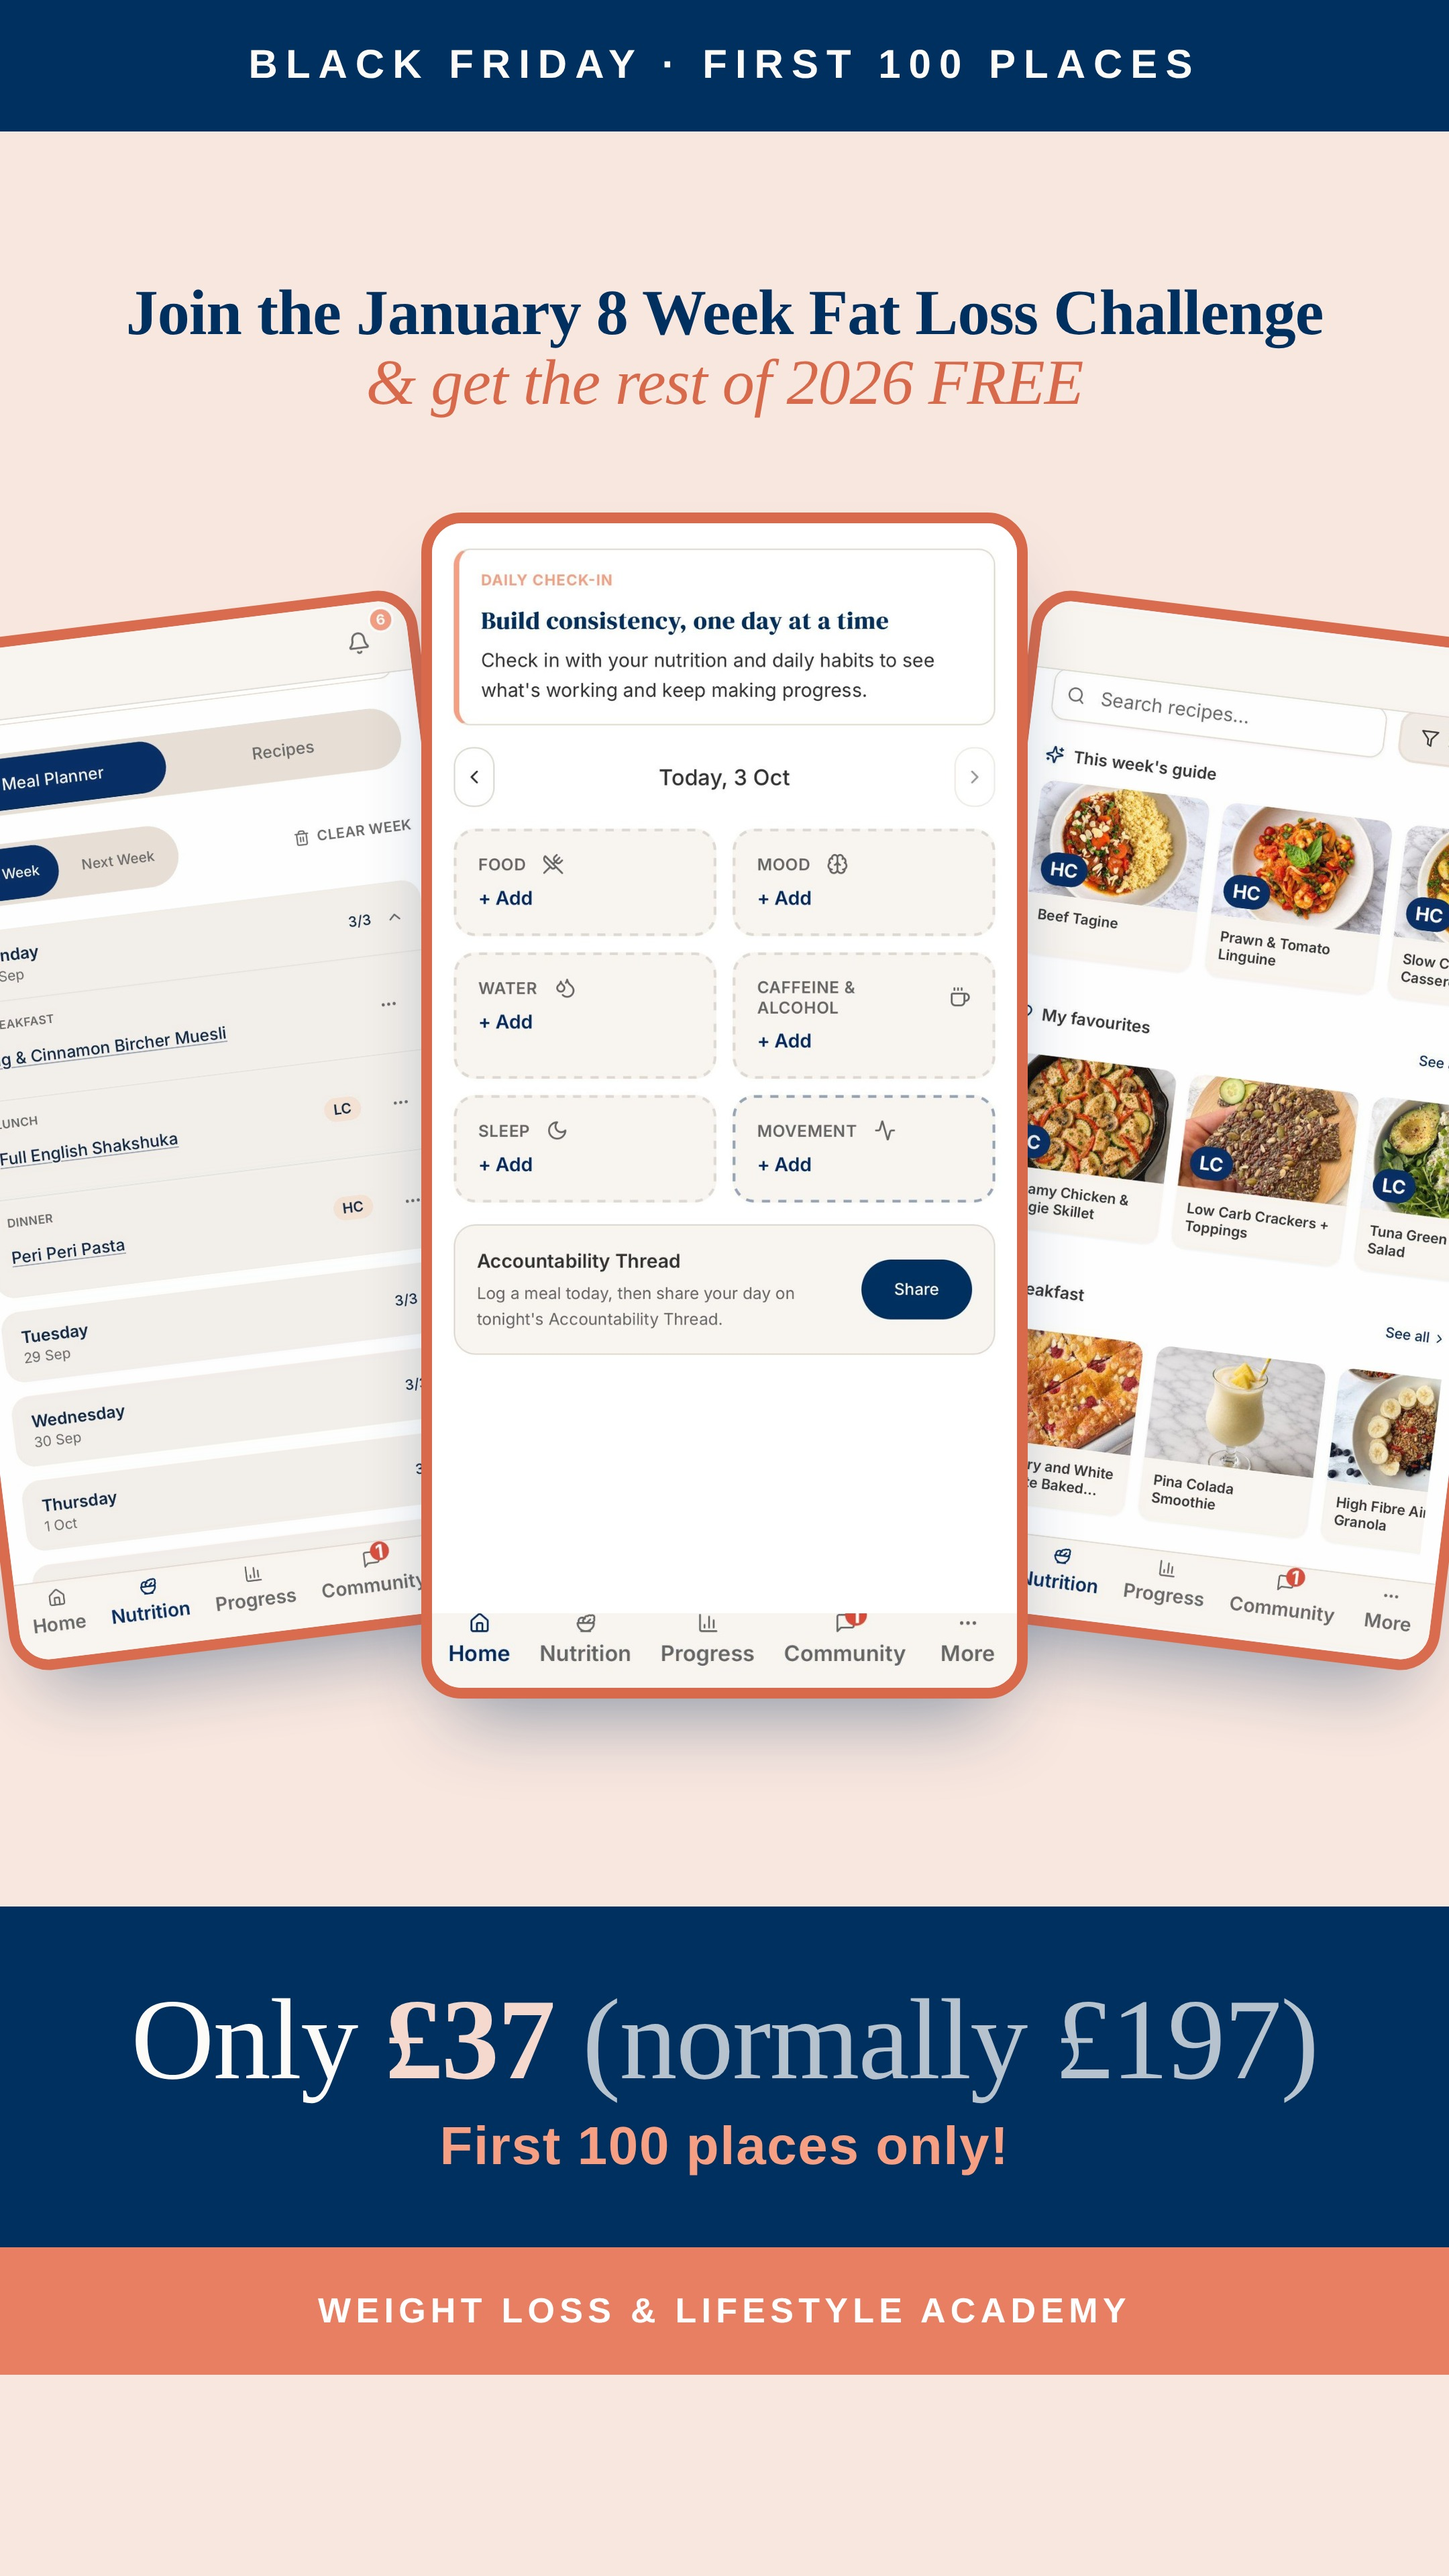
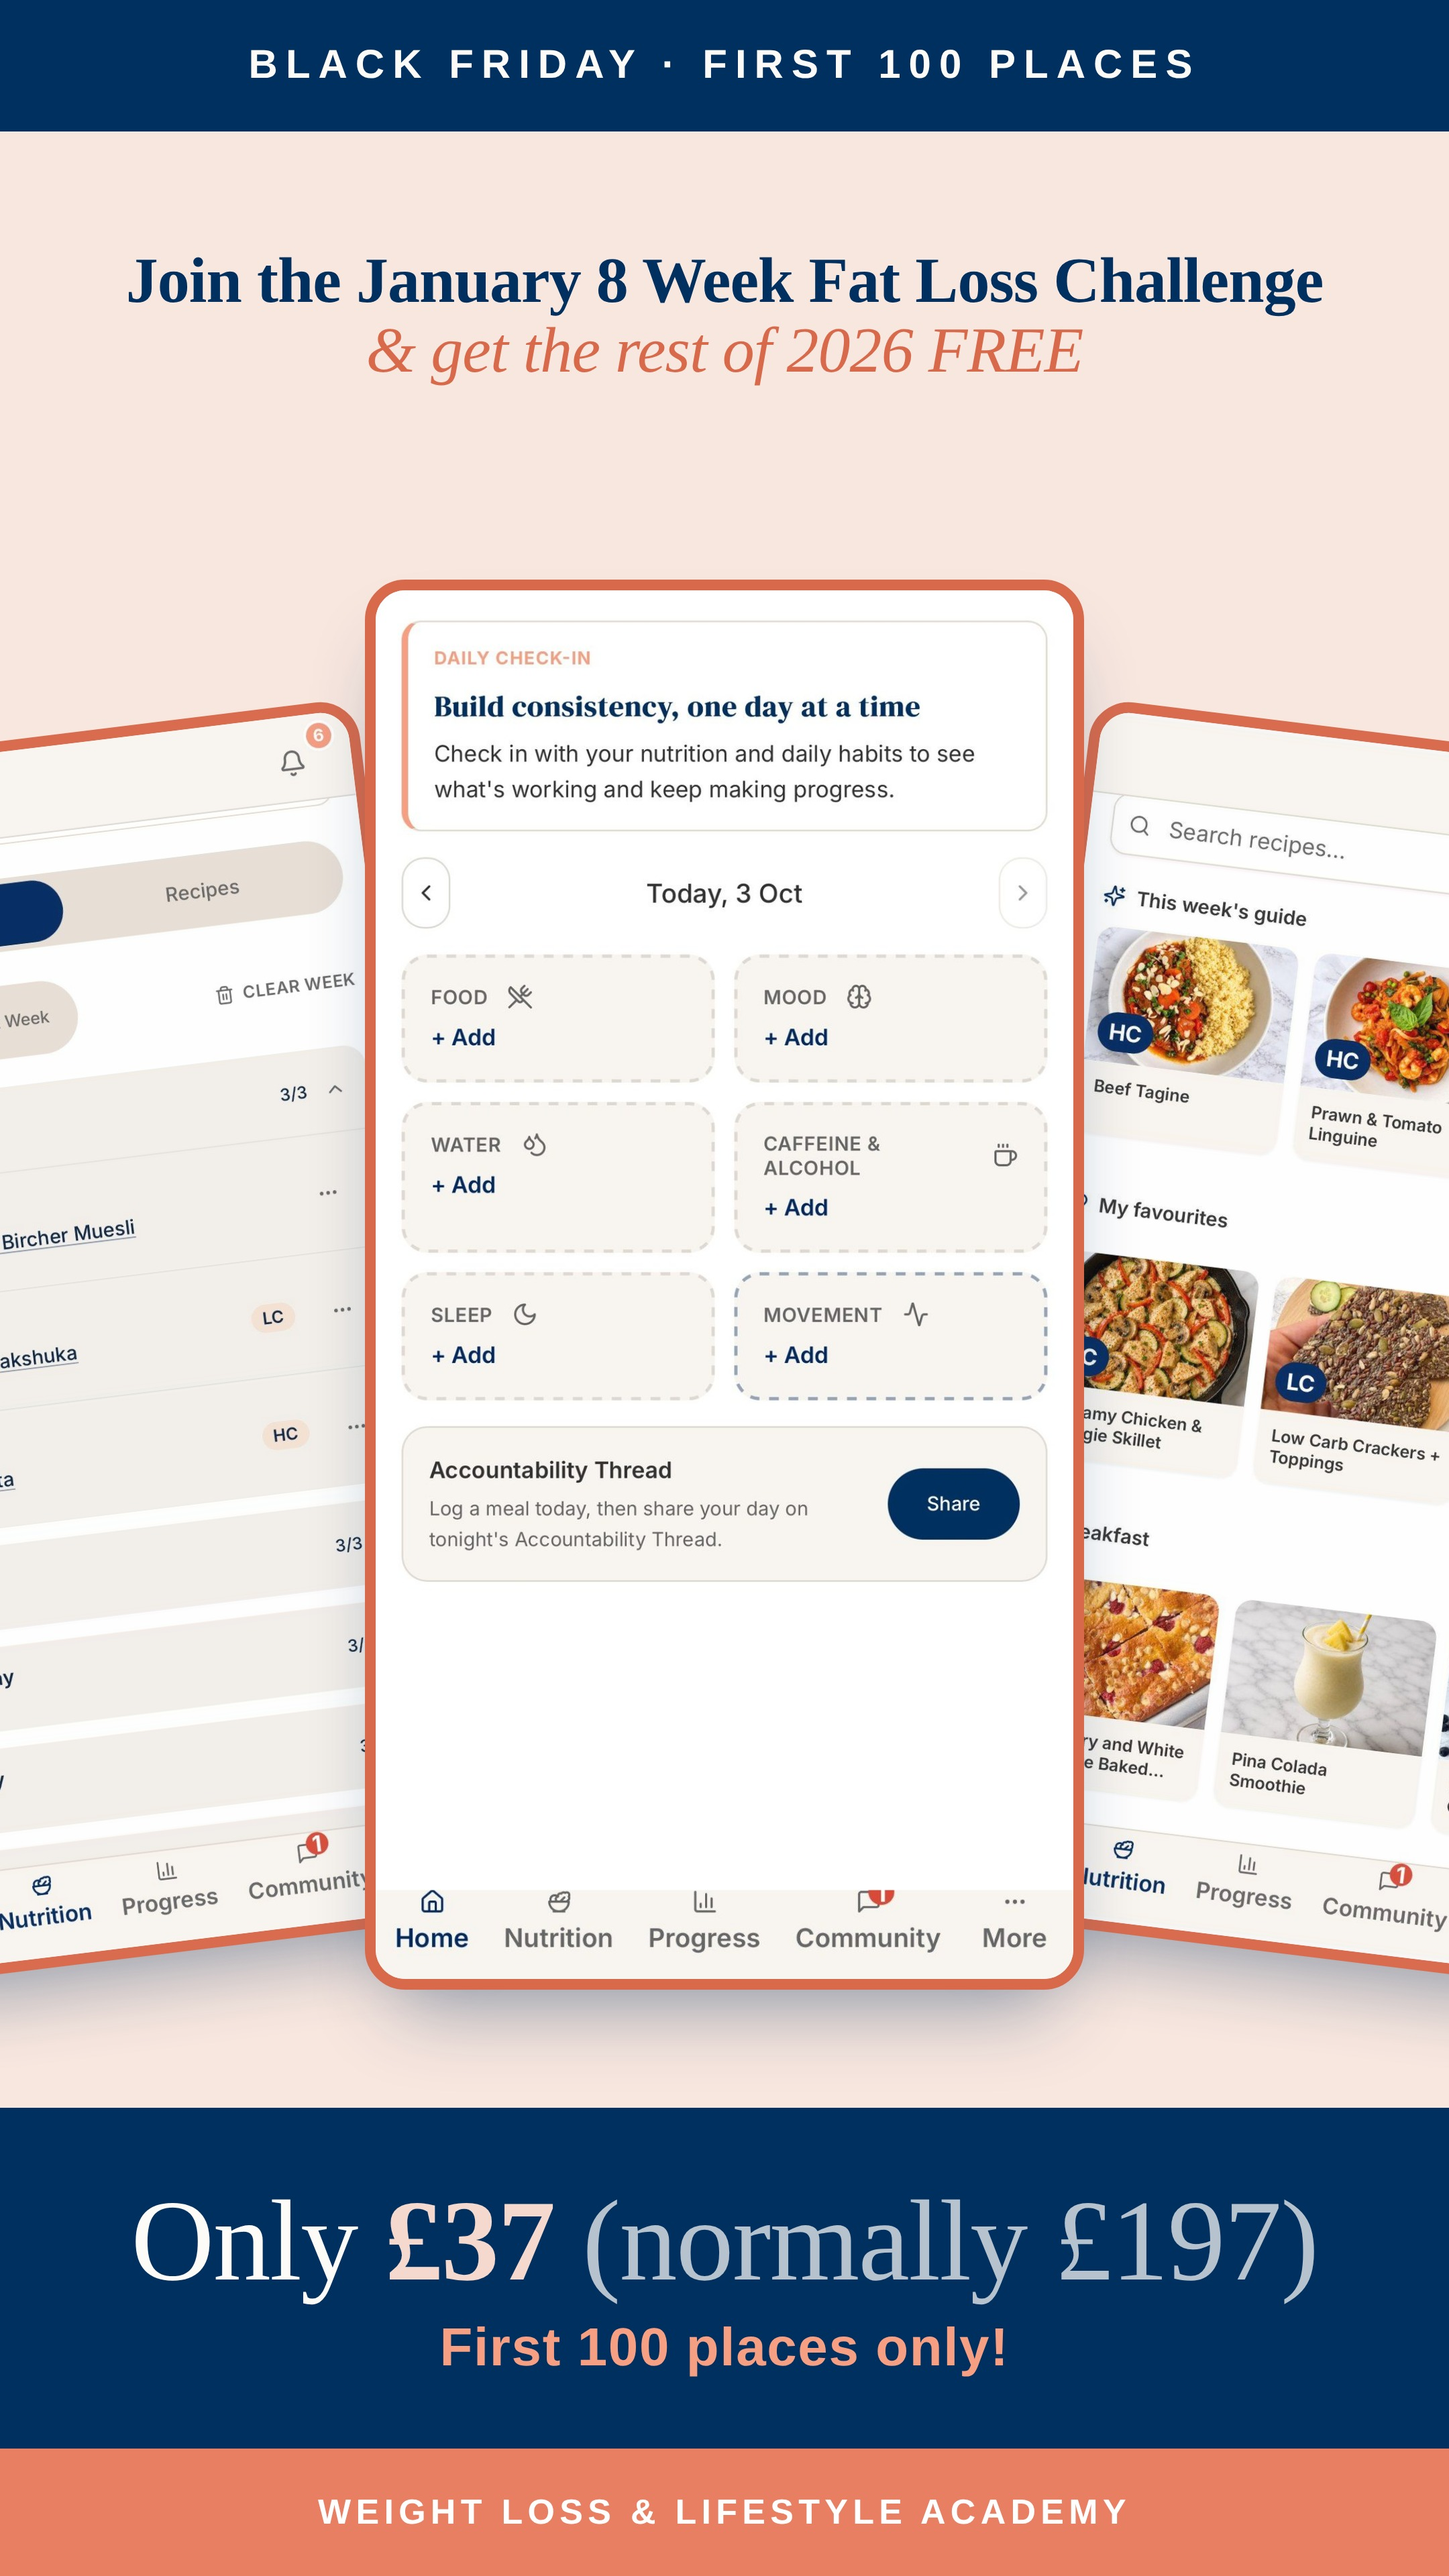
janchallenge ads: fill the frame, no padded-looking bands
Two faults in the 1080x1920 story files, both of which make a designed
ad look like a small image sitting on a coloured background.

The foot carried margin-bottom: 150px. That is 7% of the frame showing
bare background underneath the brand bar, measured on the rendered
file. Removed. Safe areas for story interface are applied by Meta at
the placement; baking them into the image just wastes the frame.

The phones were 452px in a 1080px frame and pinned to the top of the
body, so they sat in the upper third and left a band of empty
background above the price bar. They are now 536px, centred in what is
left after the headline, and the body's top padding comes down from
110px to 86px.

Both ad sets re-rendered. Sizes are unchanged and correct: 1080x1080,
1080x1350 and 1080x1920, exported at 2x.

Claude-Session: https://claude.ai/code/session_01Jn9w1ixEKqgExzNapm9XBc

diff --git a/janchallenge/ads/index.html b/janchallenge/ads/index.html
@@ -88,15 +88,22 @@
 
   /* ---- story 1080x1920 ---- */
   #ad-story .strip { padding: 32px; font-size: 30px; }
-  #ad-story .body { padding: 110px 48px 0; }
+  #ad-story .body { padding: 86px 48px 0; }
   #ad-story h1 { font-size: 48px; }
-  #ad-story .phones { margin-top: 70px; align-items: flex-start; }
-  #ad-story .phone.mid { width: 452px; margin: 0 -42px; }
-  #ad-story .phone.side { width: 394px; margin-top: 76px; }
+  /* 9:16 is a tall frame. At 452px the phones sat in the top third and left a
+     band of bare background above the price bar, which looks like padding.
+     Bigger, and centred in what is left after the headline. */
+  #ad-story .phones { margin-top: 56px; align-items: center; }
+  #ad-story .phone.mid { width: 536px; margin: 0 -50px; }
+  #ad-story .phone.side { width: 466px; margin-top: 88px; }
   #ad-story .offer { padding: 52px 56px; }
   #ad-story .offer-line { font-size: 86px; }
   #ad-story .offer-sub { font-size: 40px; margin-top: 10px; }
-  #ad-story .foot { padding: 32px; font-size: 26px; margin-bottom: 150px; }
+  /* No margin under the foot. It was 150px of bare background at the bottom
+     of a 1920px frame -- 7% of the ad showing nothing, which reads as the
+     image having been padded rather than designed. Safe areas for story UI
+     are Meta's job at placement, not something to bake into the file. */
+  #ad-story .foot { padding: 32px; font-size: 26px; }
 </style>
 </head>
 <body>

diff --git a/janchallenge/ads/food.html b/janchallenge/ads/food.html
@@ -101,7 +101,7 @@
 
   /* ---- story 1080x1920 ---- */
   #ad-story .strip { padding: 32px; font-size: 30px; }
-  #ad-story .body { padding: 110px 48px 0; }
+  #ad-story .body { padding: 86px 48px 0; }
   #ad-story h1 { font-size: 46px; line-height: 1.22; }
   #ad-story .grid { margin-top: 70px; }
   #ad-story .phones { margin-top: 70px; align-items: flex-start; }
@@ -110,7 +110,11 @@
   #ad-story .offer { padding: 52px 56px; }
   #ad-story .offer-line { font-size: 86px; }
   #ad-story .offer-sub { font-size: 40px; margin-top: 10px; }
-  #ad-story .foot { padding: 32px; font-size: 26px; margin-bottom: 150px; }
+  /* No margin under the foot. It was 150px of bare background at the bottom
+     of a 1920px frame -- 7% of the ad showing nothing, which reads as the
+     image having been padded rather than designed. Safe areas for story UI
+     are Meta's job at placement, not something to bake into the file. */
+  #ad-story .foot { padding: 32px; font-size: 26px; }
 </style>
 </head>
 <body>
